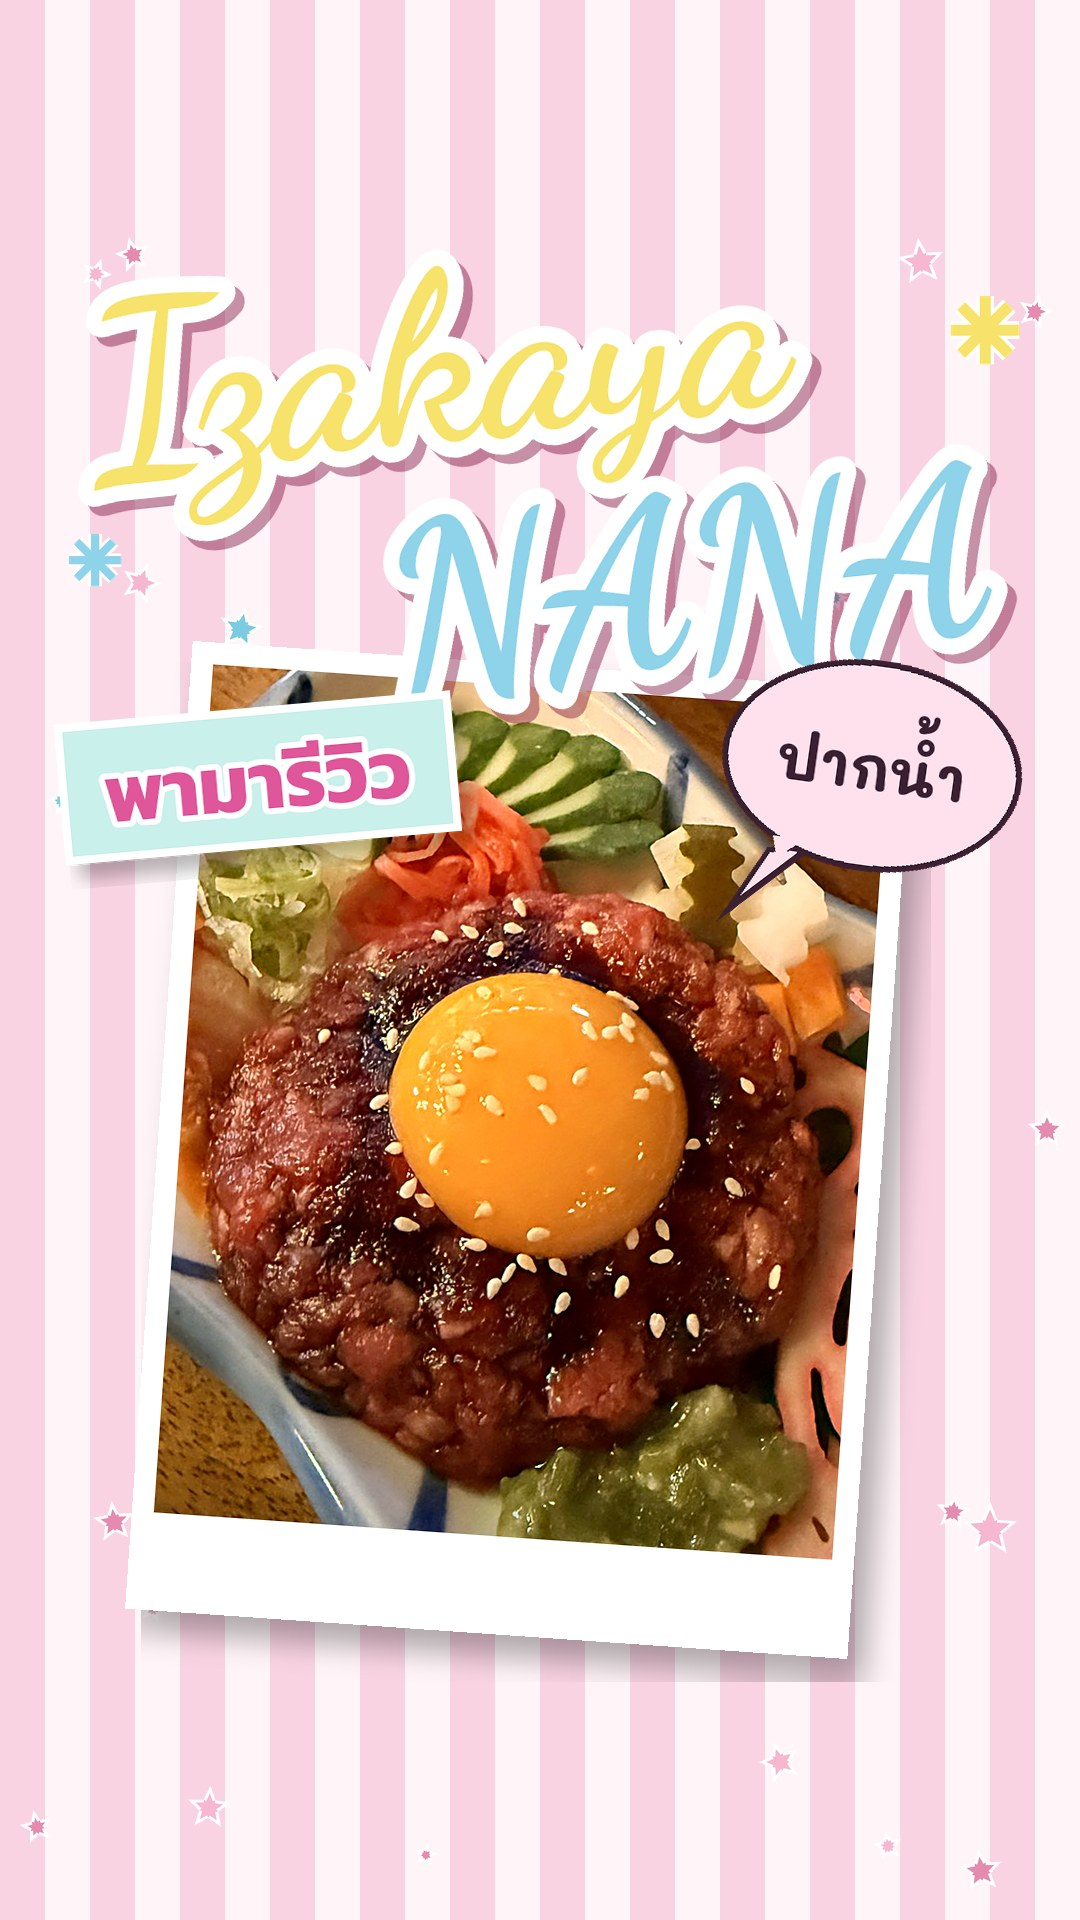
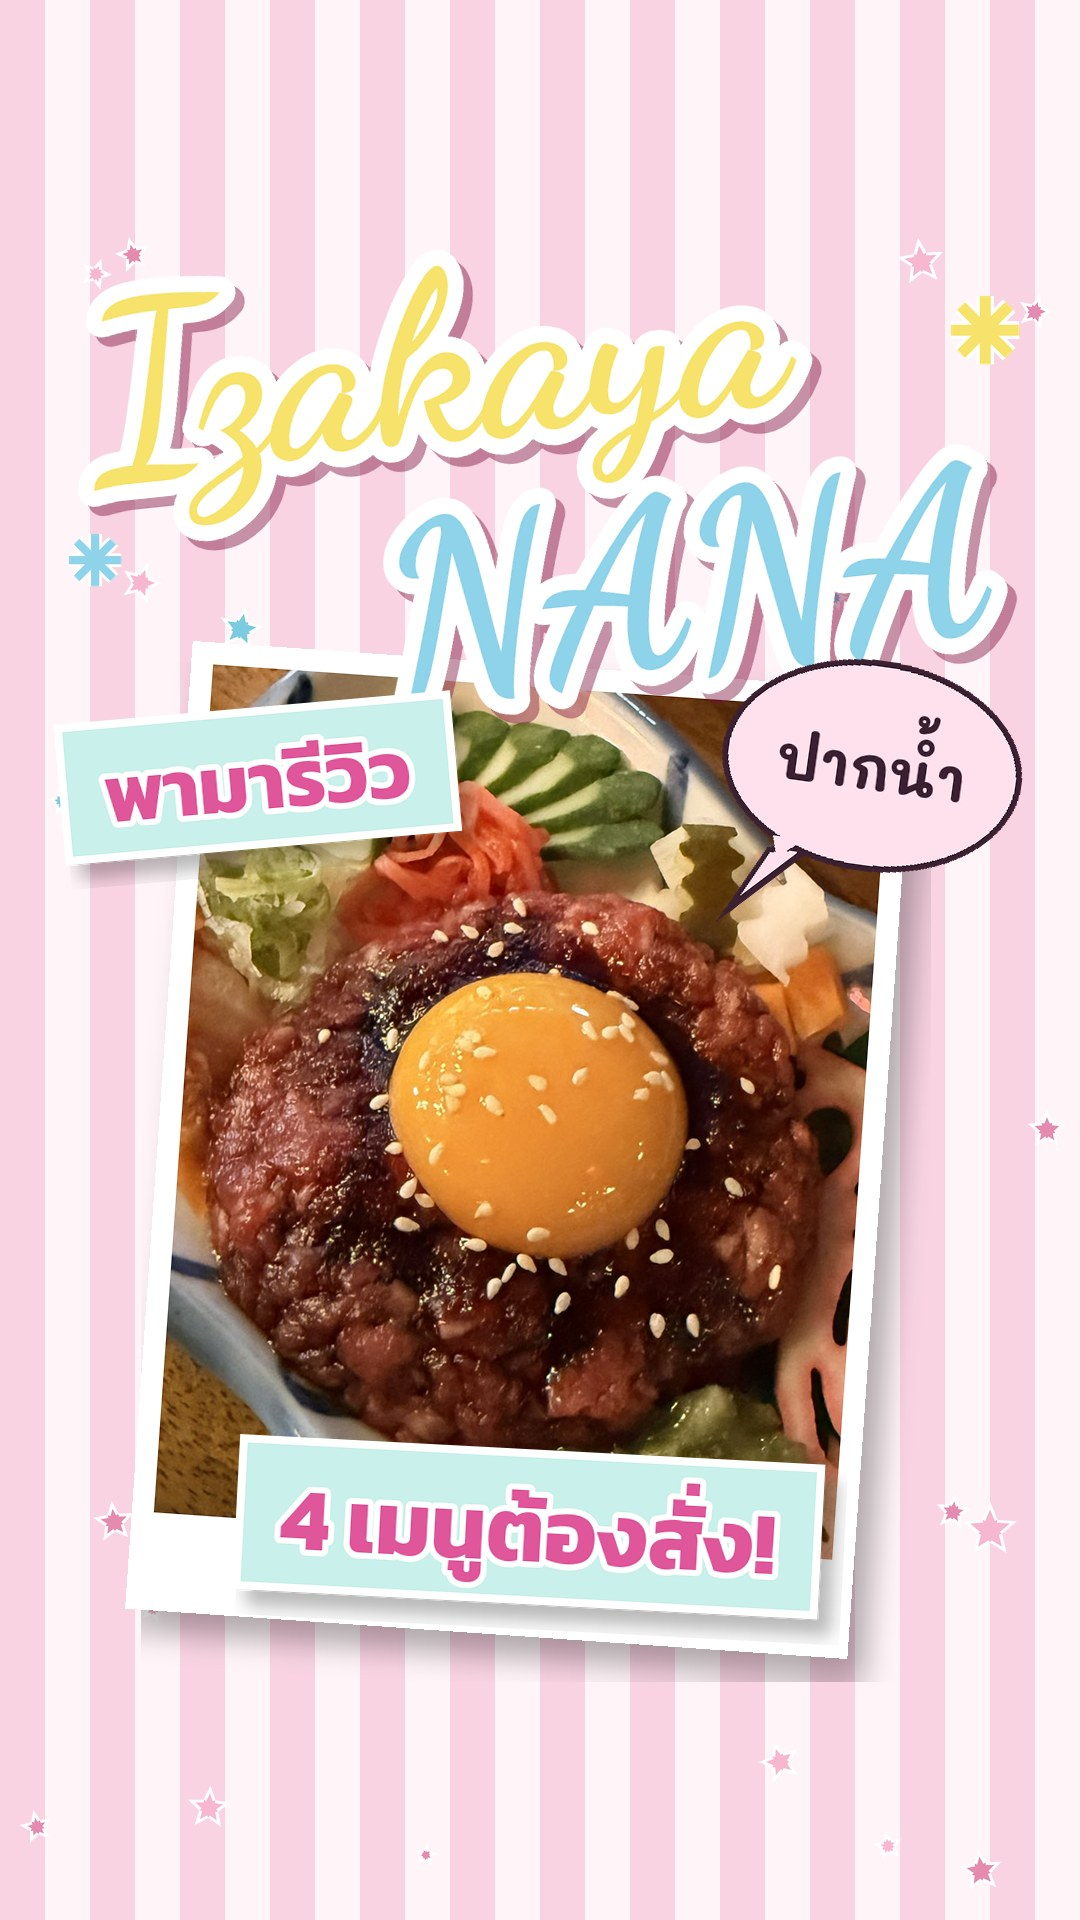
Izakaya NANA v4: 4-dish countdown with yolk-pop hook
Claude-Session: https://claude.ai/code/session_01RZMEmhoirYuY1dqu28ugx2

diff --git a/office/weeks/2026-W49/izakaya-nana/edit/scrap.py b/office/weeks/2026-W49/izakaya-nana/edit/scrap.py
@@ -151,6 +151,7 @@ def polaroid(photo, angle):
 
 
 def grade_photo(im):
+    return im  # owner: no colour filters (2026-11-23)
     im = ImageEnhance.Color(im).enhance(1.15)
     im = ImageEnhance.Contrast(im).enhance(1.04)
     a = np.asarray(im).astype(np.float32)
@@ -195,37 +196,60 @@ class El:
         frame.alpha_composite(im, (int(self.cx - im.width / 2), int(self.cy - im.height / 2)))
 
 
+def badge(num, color):
+    r = 95
+    s = (r * 2 + 30) * 4
+    im = Image.new("RGBA", (s, s), (0, 0, 0, 0))
+    d = ImageDraw.Draw(im)
+    c = s / 2
+    d.ellipse([c - r * 4 - 28, c - r * 4 - 28, c + r * 4 + 28, c + r * 4 + 28], fill="white")
+    d.ellipse([c - r * 4, c - r * 4, c + r * 4, c + r * 4], fill=color, outline=DARK, width=14)
+    d.text((c, c + 20), str(num), font=font("Kanit-Bold.ttf", int(r * 5.2)), fill="white", anchor="mm",
+           stroke_width=26, stroke_fill=DARK)
+    im = im.resize((s // 4, s // 4), Image.LANCZOS)
+    out = Image.new("RGBA", (im.width + 20, im.height + 20), (0, 0, 0, 0))
+    sh = Image.new("RGBA", im.size, (0, 0, 0, 0))
+    sh.paste((0, 0, 0, 70), mask=im.split()[3])
+    out.alpha_composite(sh.filter(ImageFilter.GaussianBlur(6)), (8, 12))
+    out.alpha_composite(im, (0, 0))
+    return out.rotate(-6, expand=True, resample=Image.BICUBIC)
+
+
 def build_els():
     E = []
-    ds = font("DancingScript-Bold.ttf", 172)
-    # hook: label from frame 0, title pops with yukke at 0.6
-    E.append(El(mint_label("พามารีวิว", 84), 300, 615, 0.0, 2.4))
-    E.append(El(outlined("Izakaya", ds, YEL, angle=6), 450, 232, 0.6, 2.4))
-    E.append(El(outlined("NANA", ds, BLU, angle=6), 715, 385, 0.65, 2.4))
-    E.append(El(asterisk(30, YEL), 975, 205, 0.7, 2.4))
-    E.append(El(star5(30, BLU, 10), 95, 420, 0.7, 2.4))
-    E.append(El(bubble("น่ากินทุกจาน!", 54, -6, "left"), 812, 590, 0.8, 2.4))
-    E.append(El(sticker("reaction-wow.png", 300, -6), 185, 1590, 1.05, 2.4))
-    E.append(El(note(["* ต้องสั่ง!"], 44, 4), 770, 1650, 1.5, 2.4))
-    # menu notes
-    E.append(El(note(["* แซลมอนสดมาก"], 42, -3), 760, 575, 2.7, 3.9))
-    E.append(El(star5(22, YEL, 5), 1000, 530, 2.75, 3.9))
-    E.append(El(note(["* ผักเยอะมาก"], 42, 3), 300, 585, 4.2, 5.4))
-    E.append(El(asterisk(20, BLU), 520, 540, 4.25, 5.4))
-    E.append(El(sticker("reaction-yes.png", 280, 5), 175, 1610, 4.4, 5.4))
-    E.append(El(note(["* งาเต็มไม้"], 42, -3), 235, 575, 5.7, 6.9))
-    E.append(El(star5(22, "#F7B7CF", 0), 440, 520, 5.75, 6.9))
-    E.append(El(asterisk(18, YEL), 960, 560, 7.1, 8.4))
+    ds = font("DancingScript-Bold.ttf", 165)
+    # hook over yolk pierce (0-1.5) + top view (1.5-2.3); keep yolk area (y~650-1200) clear
+    E.append(El(outlined("Izakaya", ds, YEL, angle=6), 430, 205, -0.08, 2.3))
+    E.append(El(outlined("NANA", ds, BLU, angle=6), 690, 355, -0.03, 2.3))
+    E.append(El(bubble("ปากน้ำ", 50, -8, "left"), 905, 520, 0.15, 2.3))
+    E.append(El(mint_label("4 เมนูต้องสั่ง!", 96, 4), 540, 1430, 0.0, 2.3))
+    E.append(El(asterisk(30, YEL), 975, 175, 0.1, 2.3))
+    E.append(El(star5(30, BLU, 10), 95, 390, 0.1, 2.3))
+    # #1 yukke 2.3-4.3
+    E.append(El(badge(1, "#FFB3D1"), 150, 640, 2.3, 4.3))
+    # reaction 4.3-5.5: no sticker
+    # #2 sashimi 5.5-7.0
+    E.append(El(badge(2, "#A8E0F0"), 150, 640, 5.5, 7.0))
+    E.append(El(star5(22, YEL, 5), 1000, 560, 5.55, 7.0))
+    # #3 yum 7.0-8.5
+    E.append(El(badge(3, "#F9E58C"), 150, 640, 7.0, 8.5))
+    E.append(El(note(["* ซ่าวาซาบิ"], 42, 3), 760, 600, 7.3, 8.5))
+    # #4 wagyu 8.5-10.0
+    E.append(El(badge(4, "#C9F0EA"), 150, 640, 8.5, 10.0))
+    E.append(El(sticker("reaction-yes.png", 280, 5), 905, 1610, 8.8, 10.0))
     return E
 
 
 def card_layers():
     """end card 11.4-14.9 : (static bg, popping elements)"""
-    T = 11.4
+    T = 11.9
     bg = stripes(5)
     E = []
-    front = photo("7ce4021c", (526, 760, 1576, 2072), (560, 700))
-    E.append(El(polaroid(front, -5), 370, 1090, T + 0.03, 99))
+    front = photo("7ce4021c", (526, 760, 1576, 2072), (480, 600))
+    pol = polaroid(front, -5)
+    pcx = 40 + pol.width // 2
+    E.append(El(pol, pcx, 1090, T + 0.03, 99))
+    pol_right = 40 + pol.width - 30  # minus shadow margin
     ds = font("DancingScript-Bold.ttf", 175)
     E.append(El(outlined("Izakaya", ds, YEL, angle=6), 430, 235, T + 0.05, 99))
     E.append(El(outlined("NANA", ds, BLU, angle=6), 690, 395, T + 0.1, 99))
@@ -238,7 +262,11 @@ def card_layers():
     pd.rounded_rectangle([4, 4, pill.width - 4, 92], radius=44, fill="white", outline=DARK, width=4)
     pd.text((pill.width / 2, 50), txt, font=pf, fill=DARK, anchor="mm")
     E.append(El(pill, 540, 648, T + 0.25, 99))
-    E.append(El(note(["- ยุคเกะไข่แดง", "- ซาชิมิรวม", "- ยำปลาดิบ"], 44, 4, head="เมนูที่ต้องสั่ง"), 775, 1130, T + 0.4, 99))
+    mn = note(["1 ยุคเกะไข่แดง", "2 ซาชิมิรวม", "3 ยำปลาไทยซีฟู้ด", "   วาซาบิ", "4 วากิวย่าง"], 40, 3, head="4 เมนูต้องสั่ง")
+    mx0 = pol_right + 18
+    assert mx0 + mn.width <= W - 20, (mx0, mn.width)
+    print("menu note x", mx0, mx0 + mn.width, "polaroid right", pol_right)
+    E.append(El(mn, mx0 + mn.width // 2, 1130, T + 0.4, 99))
     E.append(El(asterisk(30, YEL), 975, 790, T + 0.45, 99))
     E.append(El(star5(26, BLU, 12), 90, 1440, T + 0.45, 99))
     E.append(El(sticker("reaction-save.png", 300, -6), 200, 1600, T + 0.55, 99))
@@ -287,7 +315,8 @@ def cover(out):
                         (bubble("ปากน้ำ", 58, -8, "left"), 870, 790),
                         (asterisk(34, YEL), 985, 330),
                         (asterisk(26, BLU), 95, 560),
-                        (star5(28, "#F7B7CF", 0), 990, 1530)]:
+                        (star5(28, "#F7B7CF", 0), 990, 1530),
+                        (mint_label("4 เมนูต้องสั่ง!", 88, -3), 540, 1540)]:
         bg.alpha_composite(img, (int(cx - img.width / 2), int(cy - img.height / 2)))
     bg.convert("RGB").save(out)
     bg.convert("RGB").crop((0, 240, 1080, 1680)).save(out.replace(".png", "-3x4-check.jpg"), quality=90)

diff --git a/office/weeks/2026-W49/izakaya-nana/edit/build.py b/office/weeks/2026-W49/izakaya-nana/edit/build.py
@@ -17,6 +17,7 @@ os.makedirs(OUT, exist_ok=True)
 FOOD = ("curves=all='0/0.02 0.25/0.29 0.7/0.73 1/1',eq=contrast=1.05:saturation=1.07,"
         "vibrance=intensity=0.22,colorbalance=rs=0.02:bs=-0.025:rm=0.015:bm=-0.02,"
         "unsharp=5:5:0.75:5:5:0")
+NONE = ""
 PEOPLE = ("curves=all='0/0.02 0.25/0.29 0.7/0.72 1/1',eq=contrast=1.03:saturation=1.03,"
           "vibrance=intensity=0.08,unsharp=5:5:0.45:5:5:0")
 
@@ -208,50 +209,69 @@ def still_shot(name, n, box, focus, z0=1.0, slow=0.0, punch=None):
     return frames
 
 
-def shots():
-    S = []
-    # rapid open: 5 x 5 frames
-    S.append(("m1", lambda: still_shot("c7db42e2", 5, (700, 750, 620), (1008, 1336), 1.0, 0.3), FOOD))
-    S.append(("m2", lambda: still_shot("854b721a", 4, (600, 560, 620), (907, 1058), 1.0, 0.3), FOOD))
-    S.append(("m3", lambda: still_shot("ceae1e7c", 5, (184, 280, 976), (689, 1176), 1.0, 0.0), FOOD))
+DRIVE = "/tmp/claude-0/-home-user-marketing-dashboard/4c923d2c-8f5d-5971-8899-b8d14570e947/scratchpad/izakaya/drive/drive1.mov"
 
-    def m4():
-        f = video_frames("0718ff68-IMG_7392", 0.3, 1)[0]
-        return [view(f, (130, 0, 760), 1.0 + 0.06 * i / 5, (510, 600)) for i in range(4)]
-    S.append(("m4", m4, PEOPLE))
-    # yukke hero: 47 frames, punch at 0.3s, slow push after
-    S.append(("yukke", lambda: still_shot("7e14678d", 54, (193, 148, 1050), (718, 1046), 1.0, 0.07, (0.3, 0.2)), FOOD))
-    # sashimi close: slow push to salmon
-    S.append(("sashimi", lambda: still_shot("c7db42e2", 45, (164, 0, 1134), (1008, 1300), 1.0, 0.07), FOOD))
-    # yum close: slow drift (pan)
+
+def vframes(path, start, n, speed=1.0):
+    vf = (f"setpts=PTS/{speed}," if speed != 1.0 else "") + "fps=30"
+    p = subprocess.run(["ffmpeg", "-nostdin", "-v", "error", "-ss", f"{start}", "-i", path,
+                        "-frames:v", str(n), "-vf", vf, "-f", "rawvideo", "-pix_fmt", "rgb24", "-"],
+                       capture_output=True, check=True)
+    a = np.frombuffer(p.stdout, np.uint8).reshape(-1, 1920, 1080, 3)
+    assert len(a) >= n, (path, len(a))
+    return [Image.fromarray(f) for f in a[:n]]
+
+
+def blur_rect(im, box, r=30):
+    bl = im.filter(ImageFilter.GaussianBlur(r))
+    m = Image.new("L", im.size, 0)
+    ImageDraw.Draw(m).rectangle(box, fill=255)
+    m = m.filter(ImageFilter.GaussianBlur(25))
+    return Image.composite(bl, im, m)
+
+
+def shots():
+    import scrap as SC
+    S = []
+    # 0-1.5 hook: chopsticks pierce yolk, 2x speed (src 4.6-7.6)
+    S.append(("yolk", lambda: vframes(DRIVE, 4.6, 45, 2.0), NONE))
+    # 1.5-2.3 top view 7385 slow pan
+    def top():
+        src = photo("7fa7d651")
+        return [view(src, (120 + 5 * i, 0, 1449), 1.0, (0, 0)) for i in range(24)]
+    S.append(("top", top, NONE))
+    # #1 yukke video: mix 15.3-17.1 @1.5x (1.2s) + lift 19.9-20.7 (0.8s)
+    S.append(("mix", lambda: vframes(DRIVE, 15.3, 36, 1.5), NONE))
+    S.append(("lift", lambda: vframes(DRIVE, 19.9, 24, 1.0), NONE))
+    # reaction 24.0-25.2, blur background diners (right/top area behind friend)
+    def react():
+        return [blur_ellipses(blur_rect(f, (790, 0, 1080, 700)), [(742, 320, 72, 105)]) for f in vframes(DRIVE, 24.0, 36, 1.0)]
+    S.append(("react", react, NONE))
+    # #2 sashimi slow zoom
+    S.append(("sashimi", lambda: still_shot("c7db42e2", 45, (164, 0, 1134), (1008, 1300), 1.0, 0.047), NONE))
+    # #3 yum drift
     def yum():
         src = photo("854b721a")
         return [view(src, (150 + 3 * i, 0, 1134), 1.04, (756 + 3 * i, 1058)) for i in range(45)]
-    S.append(("yum", yum, FOOD))
-    # skewers: meat only, punch 15% at 0.5s
-    S.append(("skewer", lambda: still_shot("ceae1e7c", 45, (184, 280, 976), (689, 1176), 1.0, 0.0), FOOD))
-
-    # chef counter 7383 0.0-1.5, crop away bottles, blur chef faces
-    def chef():
-        fr = video_frames("e2074a94-IMG_7383", 0.0, 45)
+    S.append(("yum", yum, NONE))
+    # #4 wagyu polaroid (wide, downscaled)
+    def wagyu():
+        bg = SC.stripes(13)
+        ph = SC.photo("ceae1e7c", (0, 280, 1512, 2016), (780, 895))
+        pol = SC.polaroid(ph, -3)
         out = []
-        for i, f in enumerate(fr):
-            t = i / FPS
-            c1 = lerp_keys([(0, (648, 985)), (0.75, (593, 962)), (1.45, (435, 985))], t)
-            c2 = lerp_keys([(0, (1035, 1022)), (0.75, (983, 1000)), (1.45, (788, 1007))], t)
-            f = blur_ellipses(f, [(c1[0], c1[1], 62, 74), (c2[0], c2[1], 62, 74)])
-            x0 = lerp_keys([(0, (390,)), (0.75, (320,)), (1.45, (160,))], t)[0]
-            out.append(view(f, (x0, 390, 520), 1.0, (0, 0)))
+        for i in range(45):
+            fr = bg.copy()
+            fr.alpha_composite(pol, (560 - pol.width // 2, 1185 - pol.height // 2 - i))
+            out.append(fr.convert("RGB"))
         return out
-    S.append(("chef", chef, PEOPLE))
-
+    S.append(("wagyu", wagyu, NONE))
     def lantern():
-        fr = video_frames("0718ff68-IMG_7392", 0.0, 45)
-        return [view(f, (40, 0, 1000), 1.0 + 0.04 * i / 45, (540, 700)) for i, f in enumerate(fr)]
-    S.append(("lantern", lantern, PEOPLE))
-
+        fr = video_frames("0718ff68-IMG_7392", 0.0, 27)
+        return [view(f, (40, 0, 1000), 1.0 + 0.04 * i / 27, (540, 700)) for i, f in enumerate(fr)]
+    S.append(("lantern", lantern, NONE))
     def friend():
-        fr = video_frames("75cb1a17-IMG_7381", 6.0, 45)
+        fr = video_frames("75cb1a17-IMG_7381", 6.0, 30)
         out = []
         for i, f in enumerate(fr):
             t = i / FPS
@@ -259,8 +279,8 @@ def shots():
             f = blur_ellipses(f, [(c[0], c[1] - 10, 105, 125)])
             out.append(view(f, (27, 0, 1026), 1.0, (540, 960)))
         return out
-    S.append(("friend", friend, PEOPLE))
-    S.append(("card", lambda: card_shot(105), PEOPLE))
+    S.append(("friend", friend, NONE))
+    S.append(("card", lambda: [Image.new("RGB", (W, H), (255, 244, 248))] * 90, NONE))
     return S
 
 

diff --git a/office/weeks/2026-W49/izakaya-nana/02-script.md b/office/weeks/2026-W49/izakaya-nana/02-script.md
@@ -1,3 +1,5 @@
+> **ฉบับล่าสุด (24 พ.ย.) = โครง "4 เมนูต้องสั่ง"** · ฮุกเจาะไข่แดง (drive1.mov) · ไม่ใส่ฟิลเตอร์ · ไม่มีเสียง (เจ้าของช่องเลือกเพลงในแอป) · ซับใน edit/subs-sb.json
+
 # สคริปต์ข้อความบนจอ: พามารีวิว Izakaya Nana
 
 - รูปแบบ: ไม่มีเสียงพากย์ (ภาพจริง + ข้อความบนจอ + เสียงบรรยากาศในร้าน/เพลงเบา ๆ)  ความยาวโดยประมาณ: **14.5 วินาที**
@@ -47,7 +49,7 @@
 
 ## แคปชัน TikTok
 
-เพิ่งไปมา! Izakaya NANA ร้านญี่ปุ่นสไตล์อิซากายะ โคมแดงเต็มผนัง บรรยากาศสบาย ๆ เป็นกันเอง มากับครอบครัวหรือแก๊งเพื่อนก็ได้ ยุคเกะไข่แดงกับซาชิมิรวมคือต้องสั่ง เซฟไว้ชวนกันไปเลย
+เพิ่งไปมา! 4 เมนูต้องสั่งที่ Izakaya NANA ร้านญี่ปุ่นสไตล์อิซากายะ โคมแดงเต็มผนัง บรรยากาศสบาย ๆ เป็นกันเอง ① ยุคเกะไข่แดง ② ซาชิมิรวม ③ ยำปลาไทยซีฟู้ดวาซาบิ ④ วากิวย่าง มากับครอบครัวหรือแก๊งเพื่อนก็ได้ เซฟไว้ชวนกันไปเลย
 พิกัด: Izakaya NANA (อิซากะยะนานะ) ปากน้ำ สมุทรปราการ
 
 #พามารีวิว #ร้านอาหารญี่ปุ่น #ซาชิมิ #ยุคเกะ #ปากน้ำ #สมุทรปราการ
